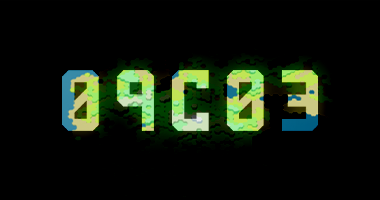
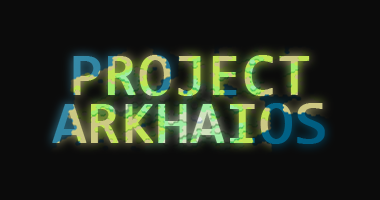
Project Arkhaios

Changed region(s): [[0.1158, 0.24, 0.8684, 0.75]]

diff --git a/arkhaios.html b/arkhaios.html
@@ -23,7 +23,7 @@
 <!------------------------------------------>
 <header>    
     <div id="niceimg">
-        <img alt="Heade IMG" src="images/Cover_09C03.png"/>
+        <img alt="Heade IMG" src="images/Cover_ProjectArkhaios.jpg"/>
     </div>
 </header>
     
